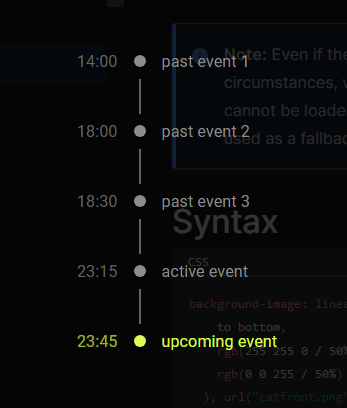
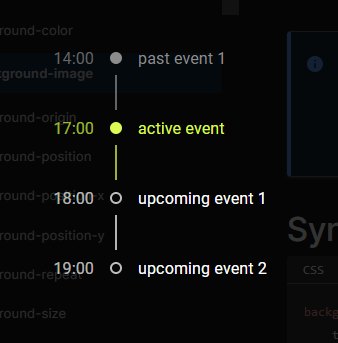
full date format in json, small fixes

diff --git a/src/Schedule.tsx b/src/Schedule.tsx
@@ -9,30 +9,30 @@ import { EventStatus, ISheduleData, ISheduleEntity, ISheduleItem } from './inter
 const Schedule : React.FC<ISheduleData> = (props: ISheduleData) => {
 
   const items: Array<ISheduleItem> = [];
-  const dateNow: Date = new Date(Date.now());
-  let prevTime: Date = new Date(Date.now());
+  const dateNow: Date = new Date();
+  let prevTime: Date = new Date();
   prevTime.setFullYear(3000);
 
-  props.items.findLast((item: ISheduleEntity) => {
-    const newItem: ISheduleItem = {
+  props.items.findLast((item: ISheduleEntity) => 
+  {
+    const newItem: ISheduleItem = 
+    {
       time: item.time,
       content: item.content,
       isFinal: false,
       status: EventStatus.Upcoming,
     }
 
-    const regexp = /(\d?\d)\:(\d\d)/g;
-    const match = item.time.matchAll(regexp).next().value;
+    const itemTime = new Date(item.time);
   
-    if(match) 
-    {
-      const hours: number = match[1];
-      const minutes: number = match[2];
-
-      const itemTime: Date = new Date(dateNow);
-      itemTime.setHours(hours);
-      itemTime.setMinutes(minutes);
-      itemTime.setSeconds(0);
+    if(!isNaN(itemTime.getTime())) 
+    { 
+      const options: DateTimeFormatOptions = {
+        formatMatcher: "best fit",
+        timeStyle: "short",
+      }
+  
+      newItem.time = itemTime.toLocaleTimeString("ru-Ru", options); 
 
       if(dateNow >= itemTime)
       {
@@ -58,16 +58,23 @@ const Schedule : React.FC<ISheduleData> = (props: ISheduleData) => {
   //console.log(items);
   
   return (
-    <Timeline sx={{ justifyContent: 'center', height: "100vh", margin: "0" }}>
-      { 
-        items.map((item: ISheduleItem, index: number) => 
-          ( 
-            <ScheduleItem 
-              key={`schedule_item_${index}`}
-              {...item}/> 
-          )
+    <Timeline sx=
+    {{ 
+        justifyContent: 'center',
+        height: "100vh",
+        margin: "0",
+        padding: "0px 0px",
+        paddingRight: "7vh", 
+    }}>
+    { 
+      items.map((item: ISheduleItem, index: number) => 
+        ( 
+          <ScheduleItem 
+            key={`schedule_item_${index}`}
+            {...item}/> 
         )
-      }
+      )
+    }
     </Timeline>
   );
 }

diff --git a/src/App.tsx b/src/App.tsx
@@ -35,7 +35,6 @@ function App() {
 
     return () => {
       clearInterval(intervalId);
-      console.log("useEffect return"); 
     };
   }, []);
 

diff --git a/src/index.css b/src/index.css
@@ -5,5 +5,5 @@
 body {
   margin: 0;
   padding: 0;
-  background-image: url("assets/back.png")
+  /* background-image: url("assets/back.png") */
 }

diff --git a/README.md b/README.md
@@ -8,11 +8,10 @@ Reads data from `public/data.json` and displays it using `@mui/lab/Timeline`
 {
     "items":
         [
-            { "time": "14:00", "content": "past event 1" },
-            { "time": "18:00", "content": "past event 2" },
-            { "time": "18:30", "content": "past event 3" },
-            { "time": "23:15", "content": "active event" },
-            { "time": "23:45", "content": "upcoming event" }
+            { "time": "2024-04-19 14:00", "content": "past event 1" },
+            { "time": "2024-04-19 17:00", "content": "active event" },
+            { "time": "2024-04-19 18:00", "content": "upcoming event 1" },
+            { "time": "2024-04-19 19:00", "content": "upcoming event 2" }
         ]
 }
 ```
